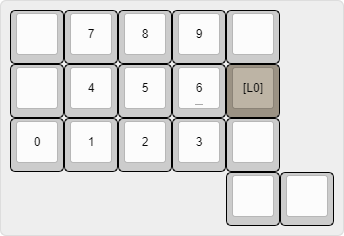
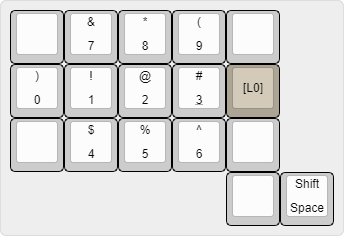
thumb layer and chord cleanup

diff --git a/README.md b/README.md
@@ -18,25 +18,22 @@ One-handed chorded keyboard layout.
 
 ### Base (L0)
 
-![Base](/images/base.png)
+![Base](/images/base.png) ![Secondary](/images/secondary.png)
+
 Chord | Action | Chord | Action | Chord | Action
 --- | --- | --- | --- | --- | ---
-![d](/images/d.png) | D | ![comma](/images/comma.png) | , | ![enter](/images/enter.png) | Enter
-![h](/images/h.png) | H | ![period](/images/period.png) | . | ![tab](/images/tab.png) | Tab
-![i](/images/i.png) | I | ![semicolon](/images/semicolon.png) | ; | ![ctrl](/images/ctrl.png) | Control
-![j](/images/j.png) | J | ![apos](/images/apos.png) | ' | ![alt](/images/alt.png) | Alt
-![k](/images/k.png) | K | ![left bracket](/images/lbracket.png) | [ | ![gui](/images/gui.png) | Gui
-![l](/images/l.png) | L | ![right bracket](/images/rbracket.png) | ] | ![escape](/images/esc.png) | Escape
-![n](/images/n.png) | N | ![minus](/images/minus.png) | - | ![del](/images/del.png) | Delete
-![r](/images/r.png) | R | ![equals](/images/equals.png) | = | ![layer 3](/images/l3.png) | To Numbers (L3)
-![s](/images/s.png) | S | ![slash](/images/slash.png) | / | ![layer 1](/images/l1.png) | To Nav (L1)
-![x](/images/x.png) | X | ![backslash](/images/backslash.png) | \ | ![layer 2](/images/l2.png) | To Mouse (L2)
-![z](/images/z.png) | Z | ![grave](/images/grave.png) | ` | ![layer 4](/images/l4.png) | To Functions (L4)
+![h](/images/h.png) | `H` | ![comma](/images/comma.png) | `,` or `<` | ![apos](/images/apos.png) | `'` or `"`
+![i](/images/i.png) | `I` | ![period](/images/period.png) | `.` or `>` | ![tab](/images/tab.png) | `Tab`
+![shift](/images/shift.png) | `Shift` | ![semicolon](/images/semicolon.png) | `;` or `:` | ![enter](/images/enter.png) | `Enter`
+![ctrl](/images/ctrl.png) | `Control` | ![slash](/images/slash.png) | `/` or `?` | ![l3](/images/l3.png) | `To Numbers (L3)`
+![alt](/images/alt.png) | `Alt` | ![backslash](/images/backslash.png) | `\` or `\|` | ![l1](/images/l1.png) | `To Nav (L1)`
+![gui](/images/gui.png) | `Gui` | ![left paren](/images/lparen.png) | `(` | ![l2](/images/l2.png) | `To Mouse (L2)`
+![delete](/images/del.png) | `Delete` | ![right paren](/images/rparen.png) | `)` | ![l4](/images/l4.png) | `To Functions (L4)`
 
 Chord | Action
 --- | ---
-![shift](/images/shift.png) | Tap for space, hold for shift. Add to any chord to produce a shifted version of that chord.
-![lock](/images/lock.png) | Backspace. Add to any modifier (shift, control, alt, or gui) to lock or unlock the modifier.
+![shift](/images/layer-shift.png) | Tap for `space`, hold for `shift` when on layers other than the base layer.
+![lock](/images/lock.png) | `Backspace`. Add to any modifier (`shift`, `control`, `alt`, or `gui`) to lock or unlock the modifier.
 
 ### Nav (L1)
 
@@ -58,7 +55,15 @@ Chord | Action
 
 ## Release Notes
 
-### 0.1.0 [2022-01-00]
+### 0.2.0 [2022-01-10]
+
+* Added
+    * Thumb hold as layer switch
+* Updated
+    * Simpler chords
+    * Numpad for better home row usage
+
+### 0.1.0 [2022-01-09]
 
 * Added
     * Initial version

diff --git a/ideas.md b/ideas.md
@@ -1,0 +1,76 @@
+## All
+⍽etaoinsrhldcumfpgw⮠yb,.vk'TI-ASC"x1MBHEP0RWNDLGOF9jq2)(z8J;53U47:6K?YV!_/QX%Z$[]&*=+|>#`<{}\⭲@~^
+
+## Unshifted
+⍽etaoinsrhldcumfpgw⮠yb,.vk'-x109jq2z8;53476/[]=`\⭲
+
+## Base (L0)
+```
+v   w   f   p   g
+a   o   e   t   m
+b   u   c   d   y
+                bs  ⍽
+
+_____           _____           _____
+__xx_   i       _xx__    h      xx___   sh
+_____           _____           _____
+
+_____           _____           _____           ___x_           _____           ____x
+_____   ,       _____   .       ___x_   '       ___x_   ;       ____x   /       ____x   \
+__xx_           _xx__           ___x_           _____           ____x           _____
+
+_____           _____           _____
+x__x_   ctrl    x____   alt     x___x   gui
+_____           ___x_           _____
+
+_____
+_____   del
+x__x_
+
+(with ⍽ held)
+esc k   [   ]   `
+l   r   s   n   j
+z   x   =   -   q
+                ?   ?
+
+__x__           ___x_
+__x__   (       ___x_   )
+_____           _____
+
+_____           _____
+__xx_   enter   xx___   tab
+_____           _____
+
+```
+
+## Nav (L1)
+```
+pup     home    up      end     _
+pdn     left    down    right   L0
+_       _       _       _       _
+                                _       ⍽:sh
+```
+
+## Mouse
+```
+sup     mb2     mup     mb1     _
+sdn     mleft   mdown   mright  L0
+_       _       _       _       _
+                                _       ⍽:sh
+```
+
+## Numbers (L3)
+```
+_   7   8   9   _
+0   1   2   3   L0
+_   4   5   6   _
+                _   ⍽:sh
+```
+
+## Functions (L4)
+```
+f9  f10 f11 f12 _
+f5  f6  f7  f8  L0
+f1  f2  f3  f4  _
+                _   ⍽:sh
+```

diff --git a/template.md b/template.md
@@ -1,0 +1,35 @@
+## All
+⍽etaoinsrhldcumfpgw⮠yb,.vk'TI-ASC"x1MBHEP0RWNDLGOF9jq2)(z8J;53U47:6K?YV!_/QX%Z$[]&*=+|>#`<{}\⭲@~^
+
+## Unshifted
+⍽etaoinsrhldcumfpgw⮠yb,.vk'-x109jq2z8;53476/[]=`\⭲
+
+## Base (L0)
+```
+?   ?   ?   ?   ?
+?   ?   ?   ?   ?
+?   ?   ?   ?   ?
+                ?   ?
+
+?   ?   ?   ?   ?
+?   ?   ?   ?   ?
+?   ?   ?   ?   ?
+                ?   ?
+
+_____           _____           _____
+__xx_           _xx__           xx___
+_____           _____           _____
+```
+
+## Remaining
+⍽etaoinsrhldcumfpgw⮠yb,.vk'-x109jq2z8;53476/[]=`\⭲
+
+abcdefghijklmnopqrstuvwxyz  
+0-9  
+`-=[]\;',./  
+space tab enter  
+esc f1-f12  
+up down left right pgup pgdn home end  
+mup mdown mleft mright msup msdown mb1 mb2  
+shift ctrl alt gui  
+bs del
